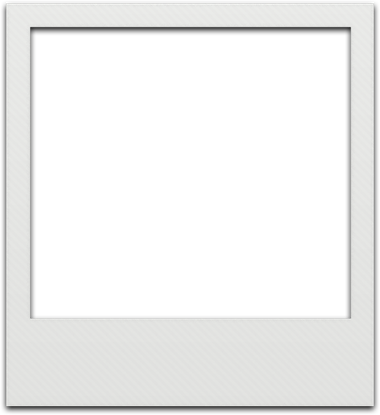
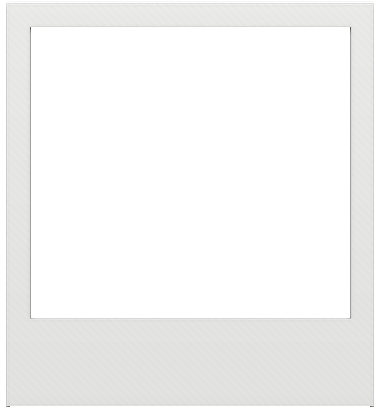
Fix square frame gap and remove its baked-in shadow
- The square frame's photo window insets were measured from the PNG's
  hard alpha cutoff, missing several pixels of soft antialiased edge,
  so the photo fell just short of the window and left a sliver of
  page background visible along the top/left/right. Re-measured all
  three frames' windows from their soft edges with a small safety
  margin so the photo always bleeds under the opaque border.
- polaroid-frame-square.png had a hard drop shadow baked into the
  asset that classic/tall don't have, making it look inconsistent.
  Stripped the shadow pixels (pure black, partial alpha) from the PNG,
  leaving just the flat white card.

Changed region(s): [[0.0, 0.0, 1.0, 1.0], [0.0579, 0.0578, 0.9263, 0.7807]]

diff --git a/src/lib/frames.ts b/src/lib/frames.ts
@@ -10,9 +10,12 @@ export const FRAME_SIZES: Record<string, { w: number; h: number; src: string }> 
 
 // Each frame PNG cuts its photo window at a different spot, so the
 // photo-art layer's inset must match that frame's own art, not a
-// one-size-fits-all box.
+// one-size-fits-all box. Measured from each PNG's soft (antialiased)
+// window edge with a small extra margin subtracted so the photo layer
+// always bleeds slightly under the opaque frame border — undersizing
+// it left a sliver of the page background peeking through the window.
 export const FRAME_WINDOWS: Record<string, { left: number; right: number; top: number; bottom: number }> = {
-  classic: { left: 4.9, right: 4.3, top: 8.7, bottom: 19.1 },
-  tall: { left: 9.6, right: 9.6, top: 5.7, bottom: 14.7 },
-  square: { left: 9.2, right: 9.0, top: 8.4, bottom: 23.9 },
+  classic: { left: 4.0, right: 3.4, top: 7.9, bottom: 18.2 },
+  tall: { left: 8.5, right: 8.9, top: 4.8, bottom: 13.8 },
+  square: { left: 7.5, right: 7.3, top: 6.4, bottom: 22.8 },
 }
